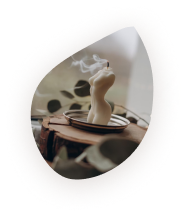
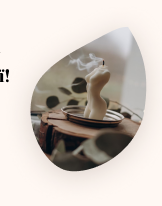
адаптирован hero

Changed region(s): [[0.1543, 0.1165, 0.9259, 0.8447], [0.0, 0.3204, 0.0617, 0.4078]]

diff --git a/app/css/style.min.css b/app/css/style.min.css
@@ -1,1 +1,1 @@
-html,body,div,span,object,iframe,h1,h2,h3,h4,h5,h6,p,blockquote,pre,abbr,address,cite,code,del,dfn,em,img,ins,kbd,q,samp,small,strong,sub,sup,var,b,i,dl,dt,dd,ol,ul,li,fieldset,form,label,legend,table,caption,tbody,tfoot,thead,tr,th,td,article,aside,canvas,details,figcaption,figure,footer,header,hgroup,menu,nav,section,summary,time,mark,audio,video{margin:0;padding:0;border:0;outline:0;vertical-align:baseline;background:transparent}body{line-height:1}article,aside,details,figcaption,figure,footer,header,hgroup,menu,nav,section{display:block}nav ul{list-style:none}blockquote,q{quotes:none}blockquote:before,blockquote:after,q:before,q:after{content:"";content:none}a{margin:0;padding:0;vertical-align:baseline;background:transparent}ins{background-color:#ff9;color:#000;text-decoration:none}mark{background-color:#ff9;color:#000;font-style:italic;font-weight:bold}del{text-decoration:line-through}abbr[title],dfn[title]{border-bottom:1px dotted;cursor:help}table{border-collapse:collapse;border-spacing:0}hr{display:block;height:1px;border:0;border-top:1px solid #ccc;margin:1em 0;padding:0}input,select{vertical-align:middle}@font-face{font-family:"Comfortaa";src:url(../fonts/Comfortaa-Regular.woff2) format("woff2"),url(../fonts/Comfortaa-Regular.woff) format("woff");font-weight:400;font-style:normal}body{font-family:"Comfortaa",cursive;font-weight:400}@font-face{font-family:"YesevaOne";src:url(../fonts/YesevaOne-Regular.woff2) format("woff2"),url(../fonts/YesevaOne-Regular.woff) format("woff");font-weight:400;font-style:normal}.title-h2,.title-h1{font-family:"YesevaOne",cursive;font-weight:400}@font-face{font-family:"Comfortaa";src:url(../fonts/Comfortaa-SemiBold.woff2) format("woff2"),url(../fonts/Comfortaa-SemiBold.woff) format("woff");font-weight:600;font-style:normal}.button{font-family:"Comfortaa",cursive;font-weight:600}@font-face{font-family:"Comfortaa";src:url(../fonts/Comfortaa-Bold.woff2) format("woff2"),url(../fonts/Comfortaa-Bold.woff) format("woff");font-weight:700;font-style:normal}html,body{box-sizing:border-box;height:100%}*,*::after,*::before{box-sizing:inherit}ul[class]{list-style:none}img{max-width:100%;display:block}input,button,textarea,select{font:inherit}a{display:block;text-decoration:none}body,h1,h2,h3,h4,h5,h6,p,ul,ol,li,figure,figcaption,blockquote,dl,dd{margin:0;padding:0}body{background:var(--peach);font-size:.875rem;line-height:1.1428571429;color:var(--black);overflow-x:hidden;min-width:300px}button{padding:0;margin:0;color:inherit;font-family:inherit;font-size:inherit;background-color:rgba(0,0,0,0);cursor:pointer;border:none}::marker{margin-top:10px}button,[type=button],[type=reset],[type=submit]{-webkit-appearance:button}.main{overflow-x:clip}.visually-hidden{position:absolute;white-space:nowrap;width:1px;height:1px;overflow:hidden;border:0;padding:0;clip:rect(0 0 0 0);clip-path:inset(50%);margin:-1px}:root{--koromiko: #FFBD59;--quicksand: #BEA495;--zorba: #A5978E;--coffee:#7B6152;--peach: #FFF8F3;--gray: #FAFAFA;--gray1: #333333;--black: #000;--white: #FFFFFF}.container{margin:0 auto;padding:0 10px;max-width:1180px}@media screen and (max-width: 1000px){.container{padding:0 20px}}@media screen and (width < 769px){.container{max-width:640px}}@media screen and (width < 481px){.container{padding:0 10px}}.header{padding-top:4px}.header__inner{display:flex;justify-content:space-between;align-items:center}@media screen and (width < 619px){.header .nav__list{display:none}}.nav__burger-btn{display:none}.nav__burger-btn-svg{color:var(--coffee)}.nav__list{display:flex;gap:0 20px}.nav__link{color:inherit;text-transform:uppercase;font-size:inherit}.nav__phone{display:flex;align-items:center;gap:3px;color:var(--black)}.nav__phone-svg{color:var(--quicksand)}@media screen and (width < 769px){.nav__link,.nav__phone{font-size:.625rem;line-height:1.5}.nav__phone{gap:1px}.nav__phone-svg{width:14px;height:14px}}@media screen and (width < 619px){.header .nav{order:1}.nav__burger-btn{display:flex}.header .nav__list{display:flex;flex-direction:column;gap:20px;width:153px;position:absolute;padding:25px 34px 43px 46px;color:var(--peach);background-color:var(--coffee);top:12%;right:0%;z-index:2;transform:translateY(-129%);transition-duration:550ms;transition-timing-function:cubic-bezier(0.4, 0, 0.2, 1)}.header .nav__list.menu--open{transform:translateY(0%)}}@media screen and (width < 510px){.footer .nav__list{flex-direction:column;gap:22px;text-align:center}}.title-h1{color:var(--black);font-size:1.875rem}@media screen and (width < 769px){.title-h1{font-size:1.25rem}}@media screen and (width < 481px){.title-h1{font-size:.9375rem}}.title-h2{font-size:2.5rem;color:var(--gray)}.social{display:flex;align-items:center;column-gap:15px}.social__item{width:22px;height:22px}.social__link-svg{transition-duration:550ms;transition-timing-function:cubic-bezier(0.4, 0, 0.2, 1)}@media screen and (min-width: 480px)and (max-width: 768px){.social__link-svg{width:18px;height:18px}}.social__link:hover .social__link-svg,.social__link:focus .social__link-svg{padding:2px;width:24px;height:22px;fill:var(--white);background-color:var(--coffee);border-radius:50%}@media screen and (width < 901px){.social{justify-content:center;column-gap:8px}}.button{display:inline-block;background-color:var(--koromiko);color:#272727;font-size:.875rem;text-align:center}.button--hero{padding:18px 54px}@media screen and (width < 481px){.button{padding:14px 41px;font-size:.6875rem}}.hero{padding:40px 0 150px}.hero__inner{position:relative}.hero__content{width:370px;padding:150px 0 250px}.hero__text{margin:15px 0 48px}.hero__bg{top:0;left:240px;position:absolute;overflow:hidden}@media screen and (width < 1001px){.hero__content{width:333px;padding:95px 0 70px}.hero__text{margin-bottom:30px}.hero__bg{left:300px;width:655px}}@media screen and (width < 769px){.hero__content{width:230px;padding:95px 0 70px}.hero__text{margin:20px 0;font-size:.625rem}.hero__bg{left:180px;width:525px}}@media screen and (width < 481px){.hero{padding:30px 0 50px}.hero__content{width:179px;padding:80px 0 80px}.hero__text{margin:15px 0;font-size:.5rem}.hero__bg{left:167px;width:309px}}.footer{background:var(--white);padding-top:39px;padding-bottom:34px}.footer__inner{display:flex;justify-content:space-between;align-items:center}.footer__contacts{width:230px}.footer__phone{color:var(--gray1);margin-bottom:17px}.footer__mail{color:var(--gray1);margin-bottom:15px}@media screen and (width > 480px)and (width < 769px){.footer__nav .nav__link,.footer__phone,.footer__mail{font-size:.625rem;line-height:1.5}}@media screen and (width < 901px){.footer__inner{flex-wrap:wrap}.footer__contacts{width:100%;text-align:center}}@media screen and (width < 769px){.footer{padding:30px 0}.footer__phone,.footer__mail{margin-bottom:10px}}@media screen and (width < 510px){.footer{padding:50px 0}.footer__inner{flex-direction:column}.footer__nav{padding:50px 0}.footer__nav .nav__list{gap:22px}}@media screen and (width < 481px){.footer__phone,.footer__mail{margin-bottom:15px}}
+html,body,div,span,object,iframe,h1,h2,h3,h4,h5,h6,p,blockquote,pre,abbr,address,cite,code,del,dfn,em,img,ins,kbd,q,samp,small,strong,sub,sup,var,b,i,dl,dt,dd,ol,ul,li,fieldset,form,label,legend,table,caption,tbody,tfoot,thead,tr,th,td,article,aside,canvas,details,figcaption,figure,footer,header,hgroup,menu,nav,section,summary,time,mark,audio,video{margin:0;padding:0;border:0;outline:0;vertical-align:baseline;background:transparent}body{line-height:1}article,aside,details,figcaption,figure,footer,header,hgroup,menu,nav,section{display:block}nav ul{list-style:none}blockquote,q{quotes:none}blockquote:before,blockquote:after,q:before,q:after{content:"";content:none}a{margin:0;padding:0;vertical-align:baseline;background:transparent}ins{background-color:#ff9;color:#000;text-decoration:none}mark{background-color:#ff9;color:#000;font-style:italic;font-weight:bold}del{text-decoration:line-through}abbr[title],dfn[title]{border-bottom:1px dotted;cursor:help}table{border-collapse:collapse;border-spacing:0}hr{display:block;height:1px;border:0;border-top:1px solid #ccc;margin:1em 0;padding:0}input,select{vertical-align:middle}@font-face{font-family:"Comfortaa";src:url(../fonts/Comfortaa-Regular.woff2) format("woff2"),url(../fonts/Comfortaa-Regular.woff) format("woff");font-weight:400;font-style:normal}body{font-family:"Comfortaa",cursive;font-weight:400}@font-face{font-family:"YesevaOne";src:url(../fonts/YesevaOne-Regular.woff2) format("woff2"),url(../fonts/YesevaOne-Regular.woff) format("woff");font-weight:400;font-style:normal}.title-h2,.title-h1{font-family:"YesevaOne",cursive;font-weight:400}@font-face{font-family:"Comfortaa";src:url(../fonts/Comfortaa-SemiBold.woff2) format("woff2"),url(../fonts/Comfortaa-SemiBold.woff) format("woff");font-weight:600;font-style:normal}.button{font-family:"Comfortaa",cursive;font-weight:600}@font-face{font-family:"Comfortaa";src:url(../fonts/Comfortaa-Bold.woff2) format("woff2"),url(../fonts/Comfortaa-Bold.woff) format("woff");font-weight:700;font-style:normal}html,body{box-sizing:border-box;height:100%}*,*::after,*::before{box-sizing:inherit}ul[class]{list-style:none}img{max-width:100%;display:block}input,button,textarea,select{font:inherit}a{display:block;text-decoration:none}body,h1,h2,h3,h4,h5,h6,p,ul,ol,li,figure,figcaption,blockquote,dl,dd{margin:0;padding:0}body{background:var(--peach);font-size:.875rem;line-height:1.1428571429;color:var(--black);overflow-x:hidden;min-width:300px}button{padding:0;margin:0;color:inherit;font-family:inherit;font-size:inherit;background-color:rgba(0,0,0,0);cursor:pointer;border:none}::marker{margin-top:10px}button,[type=button],[type=reset],[type=submit]{-webkit-appearance:button}.main{overflow-x:clip}.visually-hidden{position:absolute;white-space:nowrap;width:1px;height:1px;overflow:hidden;border:0;padding:0;clip:rect(0 0 0 0);clip-path:inset(50%);margin:-1px}:root{--koromiko: #FFBD59;--quicksand: #BEA495;--zorba: #A5978E;--coffee:#7B6152;--peach: #FFF8F3;--gray: #FAFAFA;--gray1: #333333;--black: #000;--white: #FFFFFF}.container{margin:0 auto;padding:0 10px;max-width:1180px}@media screen and (max-width: 1000px){.container{padding:0 20px}}@media screen and (width < 769px){.container{max-width:640px}}@media screen and (width < 481px){.container{padding:0 10px}}.header{padding-top:4px}.header__inner{display:flex;justify-content:space-between;align-items:center}@media screen and (width < 619px){.header .nav__list{display:none}}.nav__burger-btn{display:none}.nav__burger-btn-svg{color:var(--coffee)}.nav__list{display:flex;gap:0 20px}.nav__link{color:inherit;text-transform:uppercase;font-size:inherit}.nav__phone{display:flex;align-items:center;gap:3px;color:var(--black)}.nav__phone-svg{color:var(--quicksand)}@media screen and (width < 769px){.nav__link,.nav__phone{font-size:.625rem;line-height:1.5}.nav__phone{gap:1px}.nav__phone-svg{width:14px;height:14px}}@media screen and (width < 619px){.header .nav{order:1}.nav__burger-btn{display:flex}.header .nav__list{display:flex;flex-direction:column;gap:20px;width:153px;position:absolute;padding:25px 34px 43px 46px;color:var(--peach);background-color:var(--coffee);top:12%;right:0%;z-index:2;transform:translateY(-159%);transition-duration:550ms;transition-timing-function:cubic-bezier(0.4, 0, 0.2, 1)}.header .nav__list.menu--open{transform:translateY(0%)}}@media screen and (width < 510px){.footer .nav__list{flex-direction:column;gap:22px;text-align:center}}.title-h1{color:var(--black);font-size:1.875rem}@media screen and (width < 769px){.title-h1{font-size:1.25rem}}@media screen and (width < 481px){.title-h1{font-size:.9375rem}}@media screen and (width < 361px){.title-h1{font-size:1.125rem}}.title-h2{font-size:2.5rem;color:var(--gray)}.social{display:flex;align-items:center;column-gap:15px}.social__item{width:22px;height:22px}.social__link-svg{transition-duration:550ms;transition-timing-function:cubic-bezier(0.4, 0, 0.2, 1)}@media screen and (min-width: 480px)and (max-width: 768px){.social__link-svg{width:18px;height:18px}}.social__link:hover .social__link-svg,.social__link:focus .social__link-svg{padding:2px;width:24px;height:22px;fill:var(--white);background-color:var(--coffee);border-radius:50%}@media screen and (width < 901px){.social{justify-content:center;column-gap:8px}}.button{display:inline-block;background-color:var(--koromiko);color:#272727;font-size:.875rem;text-align:center}.button--hero{padding:18px 54px}@media screen and (width < 481px){.button{padding:14px 41px;font-size:.6875rem}}.hero{padding:40px 0 150px}.hero__inner{position:relative}.hero__content{width:370px;padding:150px 0 250px}.hero__text{margin:15px 0 48px}.hero__bg{top:0;left:240px;position:absolute;overflow:hidden}@media screen and (width < 1001px){.hero__content{width:333px;padding:95px 0 70px}.hero__text{margin-bottom:30px}.hero__bg{left:300px;width:655px}}@media screen and (width < 769px){.hero__content{width:230px;padding:95px 0 70px}.hero__text{margin:20px 0;font-size:.625rem}.hero__bg{left:180px;width:525px}}@media screen and (width < 481px){.hero{padding:30px 0 50px}.hero__content{width:179px;padding:80px 0 80px}.hero__text{margin:15px 0;font-size:.5rem}.hero__bg{left:167px}}@media screen and (width < 361px){.hero__content{width:203px;padding:20px 0 0}.hero__text{font-size:.625rem}.hero__bg{left:200px}.hero__bg img{width:162px}}.footer{background:var(--white);padding-top:39px;padding-bottom:34px}.footer__inner{display:flex;justify-content:space-between;align-items:center}.footer__contacts{width:230px}.footer__phone{color:var(--gray1);margin-bottom:17px}.footer__mail{color:var(--gray1);margin-bottom:15px}@media screen and (width > 480px)and (width < 769px){.footer__nav .nav__link,.footer__phone,.footer__mail{font-size:.625rem;line-height:1.5}}@media screen and (width < 901px){.footer__inner{flex-wrap:wrap}.footer__contacts{width:100%;text-align:center}}@media screen and (width < 769px){.footer{padding:30px 0}.footer__phone,.footer__mail{margin-bottom:10px}}@media screen and (width < 510px){.footer{padding:50px 0}.footer__inner{flex-direction:column}.footer__nav{padding:50px 0}.footer__nav .nav__list{gap:22px}}@media screen and (width < 481px){.footer__phone,.footer__mail{margin-bottom:15px}}

diff --git a/app/index.html b/app/index.html
@@ -66,30 +66,25 @@
             натуральної
             соєвого воску.
           </p>
-          <buttton class="button button--hero">
+          <a class="button button--hero" href="#">
             Купити
-          </buttton>
+          </a>
         </div>
 
         <picture class="hero__bg">
-          <!-- <img src="./images/hero-1160-@2x.png"  alt="images background hero"/> -->
-          <source srcset="
-          ./images/hero-1160-@1x.png  1069w,
-          ./images/hero-1160-@2x.png  2146w" media="(min-width: 1000px)" sizes="(min-width: 1000px) 1069px" />
-          <!-- src="./images/hero-1160-@1x.png" alt="images background hero" -->
+          <source srcset="./images/hero-360-@2x.png  366w" media="(max-width: 360px)" sizes=" (min-width: 360px) 162px">
 
-          <source srcset="
-            ./images/hero-768-@1x.png  545w,
-            ./images/hero-768-@2x.png  1089w" media="(min-width: 768px)" sizes="(min-width: 768px) 545px" />
+          <!-- <source srcset="
+            ./images/hero-768-@1x.png  525w,
+            ./images/hero-768-@2x.png  1089w" media="(min-width: 768px)" sizes="(min-width: 768px) 525px" /> -->
           <!-- src="./images/hero-768-@1x.png" alt="images background hero" -->
           <source srcset="
             ./images/hero-480-@1x.png  326w,
-            ./images/hero-480-@2x.png  625w" media="(min-width: 480px)" sizes="(min-width: 480px) 309px" />
-          <!--  src="./images/hero-480-@1x.png" alt="images background hero" -->
+            ./images/hero-480-@2x.png  625w" media="(max-width: 480px)" sizes="(max-width: 480px) 309px">
           <img srcset="
-          ./images/hero-380-@1x.png  184w,
-          ./images/hero-380-@2x.png  366w
-                  " src="./images/hero-380-@1x.png" alt="images background hero" sizes="(min-width: 380px) 184px" />
+          ./images/hero-1160-@1x.png  1069w,
+          ./images/hero-1160-@2x.png  2146w" src="hero-1160-@1x.png" alt="images background hero"
+            sizes="(max-width: 1180px) 1069px">
         </picture>
       </div>
     </section>

diff --git a/app/scss/components/_hero.scss b/app/scss/components/_hero.scss
@@ -83,7 +83,28 @@
 
     &__bg {
       left: 167px;
-      width: 309px;
+      // width: 309px;
+    }
+  }
+
+  @media screen and (width < 361px) {
+
+    &__content {
+      width: 203px;
+      padding: 20px 0 0;
+    }
+
+    &__text {
+      font-size: .625rem;
+    }
+
+    &__bg {
+      left: 200px;
+    }
+    
+    &__bg img {
+      width: 162px;
+
     }
   }
 

diff --git a/app/scss/components/_nav.scss b/app/scss/components/_nav.scss
@@ -75,7 +75,7 @@
       top: 12%;
       right: 0%;
       z-index: 2;
-      transform: translateY(-129%);
+      transform: translateY(-159%);
       @include transition ($transition-property: transform);
     }
 

diff --git a/app/scss/components/_headlines.scss b/app/scss/components/_headlines.scss
@@ -10,6 +10,9 @@
   @media screen and (width < 481px) {
     font-size: .9375rem;
   }
+  @media screen and (width < 361px) {
+    font-size: 1.125rem;
+  }
 }
 
 // h2 40px
